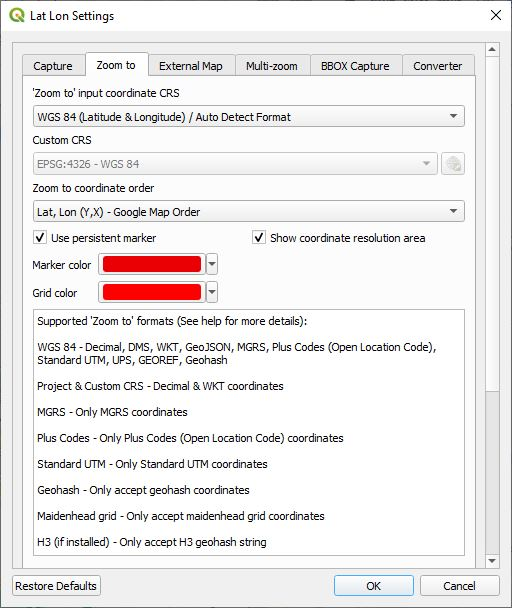
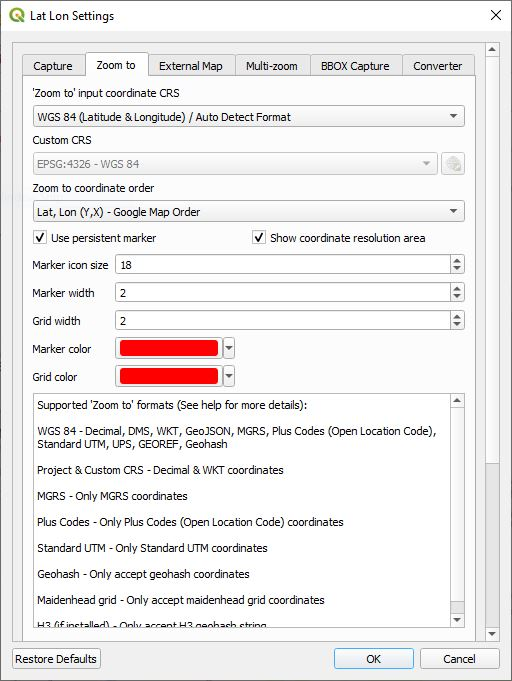
Allow the user to set the zoom to marker size

Changed region(s): [[0.0, 0.0, 0.9688, 1.0], [0.9375, 0.0, 1.0, 0.0312], [0.875, 0.5625, 0.9062, 0.625]]

diff --git a/settings.py b/settings.py
@@ -74,6 +74,9 @@ class Settings():
             self.captureH3Precision = 8
 
         ### ZOOM TO SETTINGS ###
+        self.markerSize = int(qset.value('/LatLonTools/MarkerSize', 18))
+        self.markerWidth = int(qset.value('/LatLonTools/MarkerWidth', 2))
+        self.gridWidth = int(qset.value('/LatLonTools/GridWidth', 2))
         color = qset.value('/LatLonTools/MarkerColor', '#ff0000')
         self.markerColor = QColor(color)
         value = int(qset.value('/LatLonTools/MarkerColorOpacity', 255))
@@ -318,6 +321,9 @@ class SettingsWidget(QDialog, FORM_CLASS):
         self.persistentMarkerCheckBox.setCheckState(Qt.Checked)
         self.showGridCheckBox.setCheckState(Qt.Checked)
         self.zoomToProjectionSelectionWidget.setCrs(epsg4326)
+        self.markerSizeSpinBox.setValue(18)
+        self.markerWidthSpinBox.setValue(2)
+        self.gridWidthSpinBox.setValue(2)
         markerColor = QColor('#ff0000')
         markerColor.setAlpha(255)
         gridColor = QColor('#ff0000')
@@ -470,6 +476,9 @@ class SettingsWidget(QDialog, FORM_CLASS):
         qset.setValue('/LatLonTools/PersistentMarker', self.persistentMarkerCheckBox.checkState())
         qset.setValue('/LatLonTools/ShowGrid', self.showGridCheckBox.checkState())
         qset.setValue('/LatLonTools/ZoomToCustomCrsId', self.zoomToCustomCrsId())
+        qset.setValue('/LatLonTools/MarkerSize', int(self.markerSizeSpinBox.value()))
+        qset.setValue('/LatLonTools/MarkerWidth', int(self.markerWidthSpinBox.value()))
+        qset.setValue('/LatLonTools/GridWidth', int(self.gridWidthSpinBox.value()))
         settings.markerColor = self.markerColorButton.color()
         settings.gridColor = self.gridColorButton.color()
         qset.setValue('/LatLonTools/MarkerColor', settings.markerColor.name())
@@ -672,6 +681,9 @@ class SettingsWidget(QDialog, FORM_CLASS):
         self.zoomToCoordOrderComboBox.setCurrentIndex(self.zoomToCoordOrder)
         self.persistentMarkerCheckBox.setCheckState(self.persistentMarker)
         self.showGridCheckBox.setCheckState(self.showGrid)
+        self.markerSizeSpinBox.setValue(settings.markerSize)
+        self.markerWidthSpinBox.setValue(settings.markerWidth)
+        self.gridWidthSpinBox.setValue(settings.gridWidth)
         self.markerColorButton.setColor(settings.markerColor)
         self.gridColorButton.setColor(settings.gridColor)
 

diff --git a/multizoom.py b/multizoom.py
@@ -13,7 +13,7 @@ from qgis.gui import QgsVertexMarker
 from .captureCoordinate  import CaptureCoordinate
 from .util import epsg4326, parseDMSStringSingle, parseDMSString
 from .utm import utm2Point
-from .settings import CoordOrder
+from .settings import CoordOrder, settings
 from . import mgrs
 from . import olc
 
@@ -186,10 +186,11 @@ class MultiZoomWidget(QDockWidget, FORM_CLASS):
                 item = self.resultsTable.item(id, 0).data(Qt.UserRole)
                 if item.marker is None:
                     item.marker = QgsVertexMarker(self.canvas)
+                    item.marker.setColor(settings.markerColor)
                     pt = self.canvasPointXY(item.lat, item.lon)
                     item.marker.setCenter(pt)
-                    item.marker.setIconSize(18)
-                    item.marker.setPenWidth(2)
+                    item.marker.setIconSize(settings.markerSize)
+                    item.marker.setPenWidth(settings.markerWidth)
                     item.marker.setIconType(QgsVertexMarker.ICON_CROSS)
         else:  # Only selected rows will be displayed
             indices = [x.row() for x in self.resultsTable.selectionModel().selectedRows()]
@@ -198,10 +199,11 @@ class MultiZoomWidget(QDockWidget, FORM_CLASS):
                 if id in indices:
                     if item.marker is None:
                         item.marker = QgsVertexMarker(self.canvas)
+                        item.marker.setColor(settings.markerColor)
                         pt = self.canvasPointXY(item.lat, item.lon)
                         item.marker.setCenter(pt)
-                        item.marker.setIconSize(18)
-                        item.marker.setPenWidth(2)
+                        item.marker.setIconSize(settings.markerSize)
+                        item.marker.setPenWidth(settings.markerWidth)
                         item.marker.setIconType(QgsVertexMarker.ICON_CROSS)
                 elif item.marker is not None:
                     self.canvas.scene().removeItem(item.marker)

diff --git a/zoomToLatLon.py b/zoomToLatLon.py
@@ -49,12 +49,12 @@ class ZoomToLatLon(QDockWidget, FORM_CLASS):
         self.marker = QgsRubberBand(self.canvas, QgsWkbTypes.PointGeometry)
         self.marker.setColor(settings.markerColor)
         self.marker.setStrokeColor(settings.markerColor)
-        self.marker.setWidth(2)
-        self.marker.setIconSize(18)
+        self.marker.setWidth(settings.markerWidth)
+        self.marker.setIconSize(settings.markerSize)
         self.marker.setIcon(QgsRubberBand.ICON_CROSS)
         
         self.line_marker = QgsRubberBand(self.canvas, QgsWkbTypes.LineGeometry)
-        self.line_marker.setWidth(2)
+        self.line_marker.setWidth(settings.gridWidth)
         self.line_marker.setColor(settings.gridColor)
         self.configure()
 
@@ -269,10 +269,13 @@ class ZoomToLatLon(QDockWidget, FORM_CLASS):
             (lat, lon, bounds, srcCrs) = self.convertCoordinate(text)
             pt = self.lltools.zoomTo(srcCrs, lat, lon)
             self.marker.reset(QgsWkbTypes.PointGeometry)
+            self.marker.setWidth(settings.markerWidth)
+            self.marker.setIconSize(settings.markerSize)
             self.marker.setColor(settings.markerColor)
             if self.settings.persistentMarker:
                 self.marker.addPoint(pt)
             self.line_marker.reset(QgsWkbTypes.LineGeometry)
+            self.line_marker.setWidth(settings.gridWidth)
             self.line_marker.setColor(settings.gridColor)
             if bounds and self.settings.showGrid:
                 canvas_crs = self.canvas.mapSettings().destinationCrs()

diff --git a/latLonTools.py b/latLonTools.py
@@ -407,6 +407,8 @@ class LatLonTools:
         vertLine = QgsGeometry.fromPolyline([topPt, bottomPt])
 
         self.crossRb.reset(QgsWkbTypes.LineGeometry)
+        self.crossRb.setWidth(settings.markerWidth)
+        self.crossRb.setColor(settings.markerColor)
         self.crossRb.addGeometry(horizLine, None)
         self.crossRb.addGeometry(vertLine, None)
 

diff --git a/readme.md b/readme.md
@@ -242,7 +242,10 @@ The order in which the coordinates are parsed in the ***Zoom to Latitude, Longit
 
 **Show coordinate resolution area** - Some coordinate formats represent an area rather than a point depending on its resolution. These include Geohash, H3, Plus Codes, and Maindenhead. If this is checked, then when you zoom to a coordinate the area represented by the coordinate is displayed until you exit, zoom to another location, or click on the <img src="doc/cleartool.jpg" alt="Clear marker"> button.
 
-The colors of the marker and coordinate resolution area bounding box can be changed by setting the **Marker color** and **Grid color**.
+* **Marker icon size** - This is the size of the marker icon when zooming to a coordinate. It is also used by the multi-zoom dialog box.
+* **Marker width** - This the width of the lines for the marker icon and flashing of the coordinate location. 
+* **Marker color** - The color of the marker icon and color of the lines flashing the coordinate location.
+* **Grid color** - This is the color of the area displayed for Geohash, H3, Plus Codes, and Maindenhead corrdinates when the **Show corrdinate resolution area** is checked.
 
 ### External Map Settings
 
